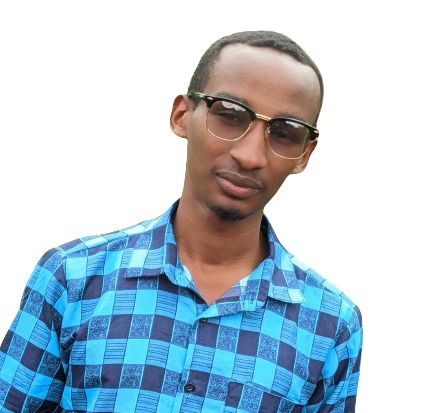
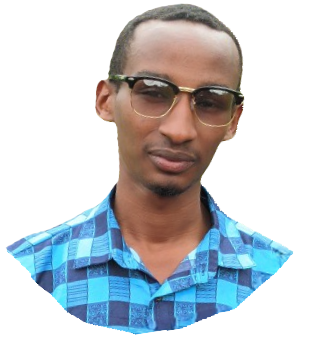
Picture fix

diff --git a/components/Photo.jsx b/components/Photo.jsx
@@ -40,9 +40,9 @@ const Photo = () => {
           xmlns="http://www.w3.org/2000/svg"
         >
           <motion.circle
-            cx="253 "
+            cx="230"
             cy="253"
-            r="200"
+            r="260"
             stroke="#00ff99"
             strokeWidth="4"
             strokeLinecap="round"
